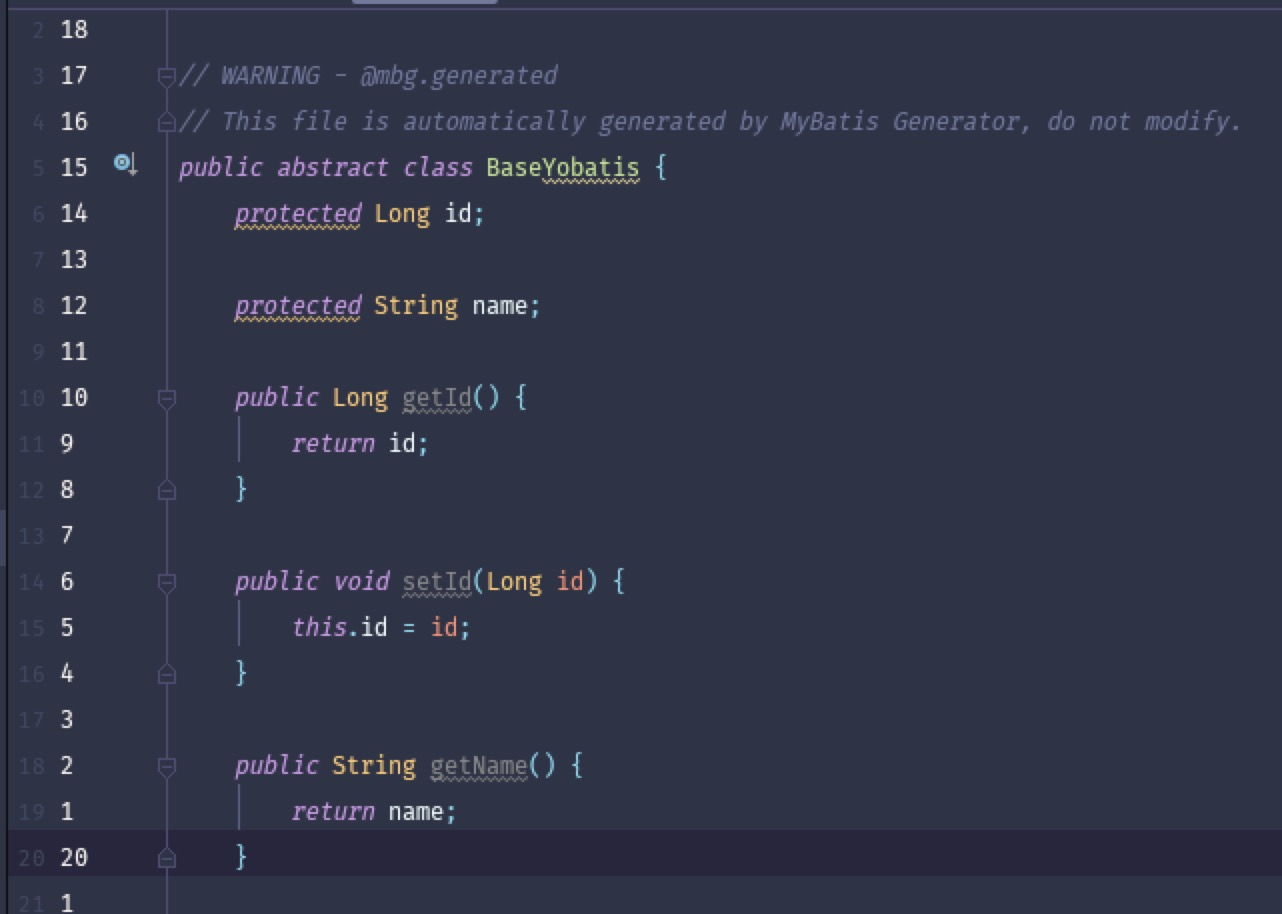
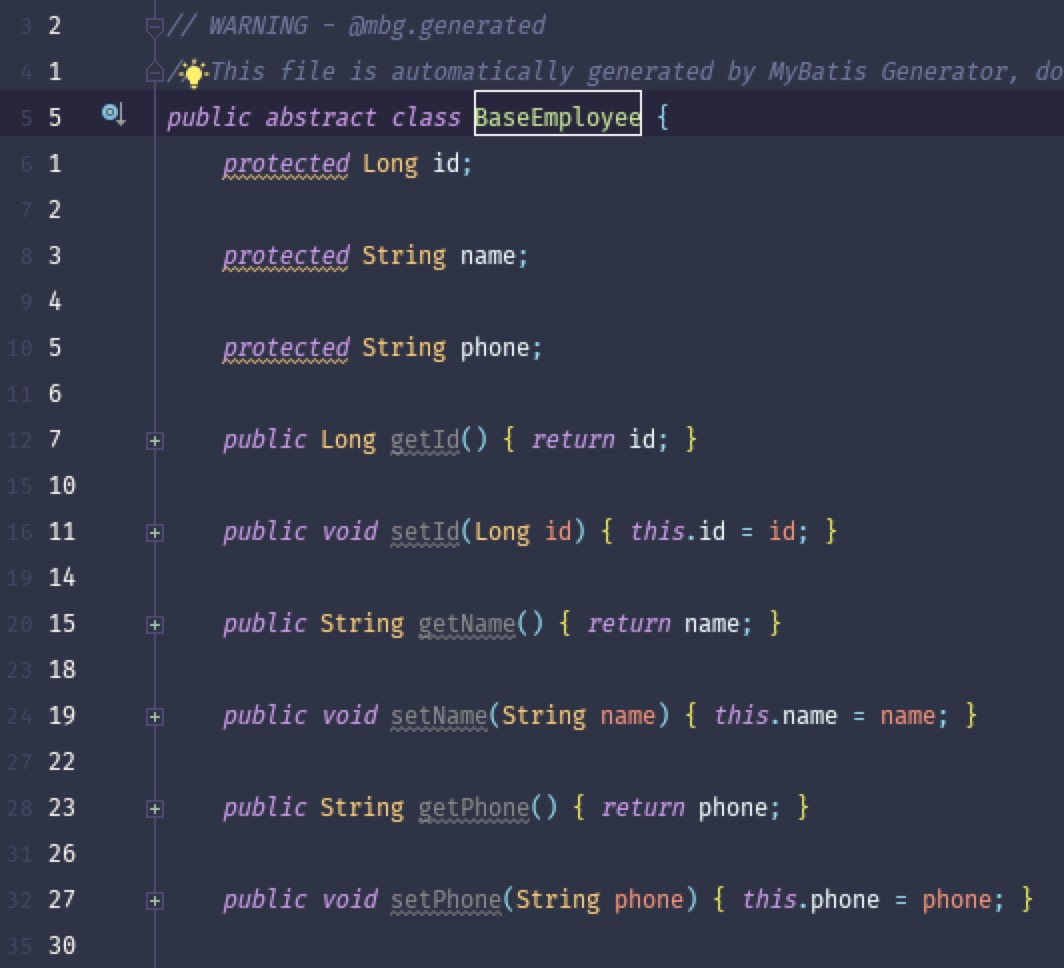
more pics."

diff --git a/src/app/code-intro/code-intro.component.html b/src/app/code-intro/code-intro.component.html
@@ -3,31 +3,33 @@
 </h1>
 <mat-divider></mat-divider>
 <div>
-  <p>在Yobatis Tool Window中单击Generate以后，Yobatis会为表yobatis生成如下文件</p>
+  <p>在Yobatis Tool Window中单击Generate以后，Yobatis会为表employee生成如下文件</p>
   <img src="assets/img/code_arch.jpg" />
 </div>
 <div>
-  <h3>YobatisDao.java</h3>
+  <h3>EmployeeDao.java</h3>
   <mat-divider></mat-divider>
-  <p>常用的CURD signature，生成后Yobatis不会覆写，可在该文件中添加自定义方法。具体使用请访问"使用Yobatis":</p>
+  <p>常用的CURD signature，生成后Yobatis不会覆写，可在该文件中添加自定义方法。具体使用请访问"代码使用":</p>
   <img src="assets/img/dao.jpg" />
 </div>
 <div>
-  <h3>BaseYobatis.java</h3>
+  <h3>BaseEmployee.java</h3>
   <mat-divider></mat-divider>
-  <p>根据表生成的实体类，包含表中所有字段，Yobatis每次Generate会覆盖该文件，请勿修改。</p>
+  <p>根据表生成的实体类，包含表中所有字段，表结构发生变更后，重新Generate即可。Yobatis每次Generate会覆盖该文件，请勿修改。</p>
   <img src="assets/img/base_entity.jpg" />
 </div>
 <div>
-  <h3>Yobatis.java</h3>
+  <h3>Employee.java</h3>
   <mat-divider></mat-divider>
   <p>配合BaseYobatis使用，可在该类中添加自定义field, method，生成后Yobatis不会覆写该文件。</p>
   <img src="assets/img/entity.jpg" />
 </div>
 <div>
-  <h3>YobatisMapper.xml</h3>
+  <h3>EmployeeMapper.xml</h3>
   <mat-divider></mat-divider>
   <p>Mybatis mapper文件，可在该文件中添加tag，Yobatis每次都会覆写自动生成的tag，保留自定义tag。</p>
   <img src="assets/img/xml.jpg" />
 </div>
-<h3>请git clone 查看完整示例项目。</h3>
+<p>
+  <strong>请git clone https://github.com/linbaiye/yobatis-sample.git 查看完整示例项目。</strong>
+</p>

diff --git a/src/app/config/config.component.html b/src/app/config/config.component.html
@@ -3,12 +3,12 @@
 </h1>
 <mat-divider></mat-divider>
 <div>
-  <p>使用Yobatis之前需要配置mysql数据库，以及代码生成位置，首先打开配置面板:</p>
+  <p>使用Yobatis之前需要配置mysql数据库，单击Yobatis图标（第1步）弹出窗口，单击Config显示配置（第2步），单击Refresh显示当前库中的表（第三步）：</p>
   <img src="assets/img/activation.jpg" />
-  <p>然后填入mysql url, 用户名，密码并点击refresh即可看到数据库中表：</p>
-  <img src="assets/img/refresh.jpg" />
-  <p>最后填入代码生成位置以及生成, java文件的package名字, xml mapper的位置:</p>
+  <p>填入代码生成位置以及生成, java文件的package名字, xml mapper的位置，单击Generate（第4步）即可生成对应的DAO/Entity/Xml Mapper代码：</p>
   <img src="assets/img/generate.jpg" />
-  <p>单击Generate即可生成对应的DAO/Entity/Xml Mapper代码, 完整示例请git clone </p>
+  <p>生成前后对比（完整示例请git clone https://github.com/linbaiye/yobatis-sample.git）</p>
+  <img src="assets/img/before_generation.jpg" /> <label>----->>></label>
+  <img src="assets/img/after_generation.jpg" />
 </div>
 

diff --git a/src/app/install/install.component.html b/src/app/install/install.component.html
@@ -1,10 +1,15 @@
-<h2>
+<h1>
   安装
-</h2>
+</h1>
 <mat-divider></mat-divider>
 <div>
   <p>
-    Yobatis目前只支持从本地安装，请到下载后通过本地安装方式安装插件。安装完成并重启后会在右侧显示Yobatis ToolWindow的按钮。如下图:
+    Yobatis目前只支持从本地安装，请到https://github.com/linbaiye/yobatis下载最新release。下载后找到IDEA的Preference/Settings目录，选择Plugins，通过Install Plugin From Disk安装，选择zip包即可，不需要解压:
+  </p>
+  <img src="assets/img/settings.jpg" />
+  <img src="assets/img/from_disk.jpg" />
+  <p>
+    安装完成并重启后会在右侧显示Yobatis ToolWindow的按钮。如下图:
   </p>
   <img src="assets/img/after_installation.jpg" />
   <p>

diff --git a/src/app/nav/nav.component.html b/src/app/nav/nav.component.html
@@ -8,10 +8,10 @@
   </a>
   <mat-divider></mat-divider>
   <a routerLinkActive="active-list-item" mat-list-item routerLink="/code-intro">
-    生成代码速览
+    代码速览
   </a>
   <mat-divider></mat-divider>
   <a routerLinkActive="active-list-item" mat-list-item  routerLink="/usage">
-    生成代码使用
+    代码使用
   </a>
 </mat-nav-list>

diff --git a/src/app/usage/usage.component.html b/src/app/usage/usage.component.html
@@ -1,4 +1,4 @@
-<h2>使用生成文件</h2>
+<h1>使用生成文件</h1>
 <mat-divider></mat-divider>
 <p>下面以表create table employee(id bigint primary key auto_increment, name char(20), phone char(12)) 作为示例，介绍各个CURD接口的使用方法。</p>
 <mat-card *ngFor="let usage of methodUsageList">
